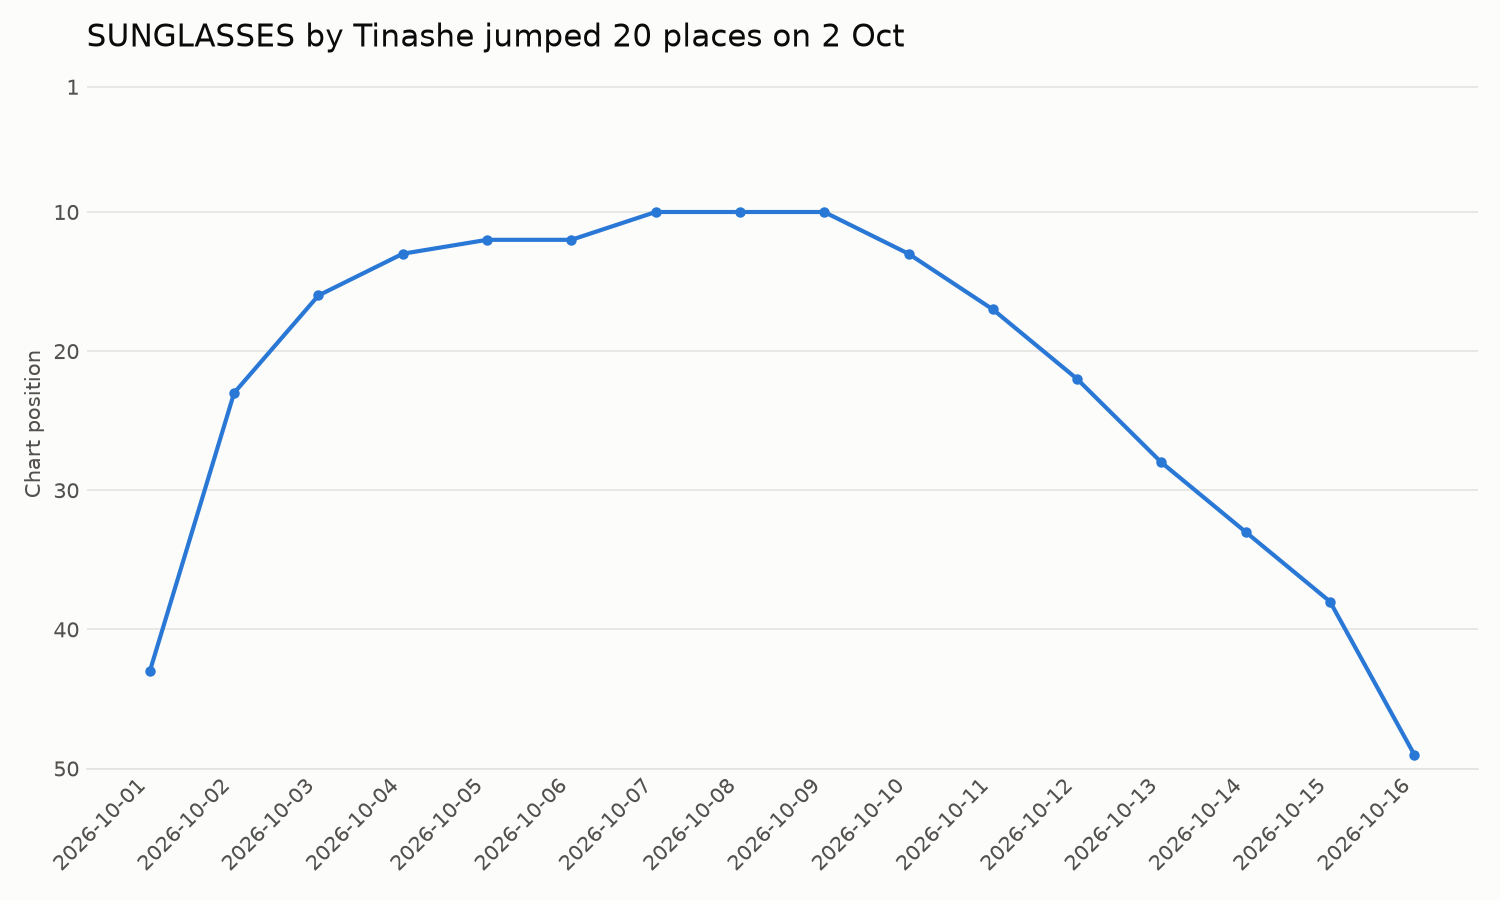
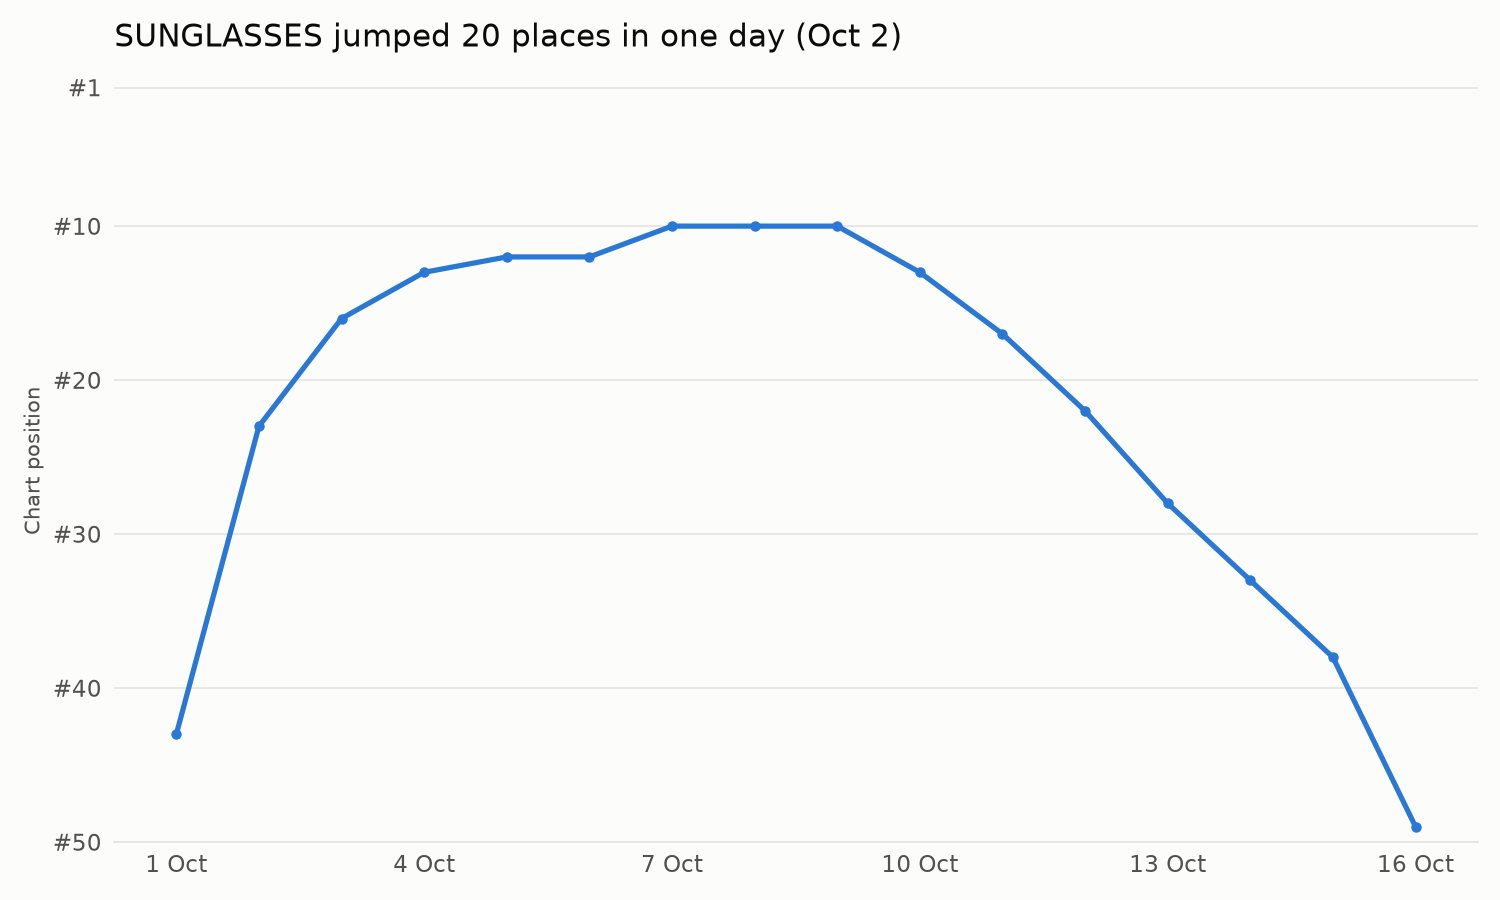
Chart tool: short date labels, #1-style positions

diff --git a/agent.py b/agent.py
@@ -95,6 +95,19 @@ def run_sql(query: str) -> str:
 
 
 # ---------- Tool 2: make a chart ----------
+def short_date_labels(labels: pd.Series) -> pd.Series | None:
+    """Turn '2026-10-01' into '1 Oct' (and '2026-10' into 'Oct 2026'). None if the labels aren't dates."""
+    if not labels.str.match(r"^\d{4}-\d{2}(-\d{2})?").all():
+        return None
+    dates = pd.to_datetime(labels.str[:10], errors="coerce")
+    if dates.isna().any():
+        return None
+    if labels.str.len().max() == 7:                       # months, e.g. 2026-10
+        return dates.dt.strftime("%b %Y")
+    one_year = dates.dt.year.nunique() == 1
+    return dates.dt.day.astype(str) + dates.dt.strftime(" %b" if one_year else " %b %y")
+
+
 def make_chart(query: str, chart_type: str, x: str, y: str, title: str,
                y_label: str = "", invert_y: bool = False) -> str:
     try:
@@ -113,35 +126,48 @@ def make_chart(query: str, chart_type: str, x: str, y: str, title: str,
     fig, ax = plt.subplots(figsize=(10, 6), facecolor=BACKGROUND)
     ax.set_facecolor(BACKGROUND)
     labels = df[x].astype(str)
+    dates = short_date_labels(labels)
+    if dates is not None:
+        labels = dates                                    # short, readable dates
     values = pd.to_numeric(df[y])
+    long_labels = labels.str.len().max() > 8
 
     if chart_type == "bar":
-        ax.bar(labels, values, color=BAR_COLOR, width=0.6)
+        ax.bar(range(len(df)), values, color=BAR_COLOR, width=0.6)
+        ax.set_xticks(range(len(df)), labels)
         ax.yaxis.grid(True, color=GRID)
-        plt.xticks(rotation=45 if len(df) > 6 else 0, ha="right" if len(df) > 6 else "center")
+        if long_labels and len(df) > 6:
+            plt.xticks(rotation=45, ha="right")
     elif chart_type == "barh":
         ax.barh(labels[::-1], values[::-1], color=BAR_COLOR, height=0.6)
         ax.xaxis.grid(True, color=GRID)
     elif chart_type == "line":
-        ax.plot(labels, values, color=BAR_COLOR, linewidth=2, marker="o", markersize=4)
+        ax.plot(range(len(df)), values, color=BAR_COLOR, linewidth=2.5, marker="o", markersize=4,
+                solid_capstyle="round", solid_joinstyle="round")
         ax.yaxis.grid(True, color=GRID)
-        step = max(1, len(df) // 12)            # show at most ~12 x labels
-        ax.set_xticks(range(0, len(df), step))
-        plt.xticks(rotation=45, ha="right")
+        # About 7 evenly spaced labels, starting at the first point and ending near the last
+        step = max(1, -(-(len(df) - 1) // 6))             # rounds up
+        ticks = list(range(0, len(df), step))
+        if len(df) - 1 - ticks[-1] >= step / 2:           # add the last point if there is room
+            ticks.append(len(df) - 1)
+        ax.set_xticks(ticks, [labels.iloc[i] for i in ticks])
+        if long_labels:
+            plt.xticks(rotation=45, ha="right")
     else:
         plt.close(fig)
         return "Unknown chart_type. Use 'bar', 'barh' or 'line'."
 
-    # Chart positions: #1 belongs at the top, so flip the axis
+    # Chart positions: #1 belongs at the top, so flip the axis and label it #1, #10, ...
     if invert_y:
         top = int(values.max())
         step = 5 if top <= 30 else 10
         ticks = [1] + list(range(step, top + step, step))   # always show #1
+        position_format = FuncFormatter(lambda v, _: f"#{int(v)}")
         if chart_type == "barh":
-            ax.set_xticks(ticks); ax.set_xlim(top + 1, 0)
+            ax.set_xticks(ticks); ax.set_xlim(top + 1, 0); ax.xaxis.set_major_formatter(position_format)
         else:
-            ax.set_yticks(ticks); ax.set_ylim(top + 1, 0.5)
-    if values.abs().max() >= 1000:
+            ax.set_yticks(ticks); ax.set_ylim(top + 1, 0.5); ax.yaxis.set_major_formatter(position_format)
+    elif values.abs().max() >= 1000:
         number_axis = ax.xaxis if chart_type == "barh" else ax.yaxis
         number_axis.set_major_formatter(FuncFormatter(lambda v, _: f"{v:,.0f}"))
 
@@ -149,7 +175,7 @@ def make_chart(query: str, chart_type: str, x: str, y: str, title: str,
     for side in ["top", "right", "left"]:
         ax.spines[side].set_visible(False)
     ax.spines["bottom"].set_color(GRID)
-    ax.tick_params(colors=TEXT_SOFT, length=0)
+    ax.tick_params(colors=TEXT_SOFT, length=0, labelsize=11, pad=6)
     ax.set_title(title, loc="left", fontsize=15, color=TEXT_DARK, pad=16)
     if chart_type == "barh":
         ax.set_xlabel(y_label or y, color=TEXT_SOFT)
@@ -165,6 +191,7 @@ def make_chart(query: str, chart_type: str, x: str, y: str, title: str,
     if sys.platform == "darwin":
         subprocess.run(["open", str(path)])
     return f"Chart saved to {path}.\nData used:\n{df.head(30).to_string(index=False)}"
+
 
 
 # ---------- Tool descriptions for Claude ----------

diff --git a/make_chart_section.py b/make_chart_section.py
@@ -1,0 +1,97 @@
+# ---------- Tool 2: make a chart ----------
+def short_date_labels(labels: pd.Series) -> pd.Series | None:
+    """Turn '2026-10-01' into '1 Oct' (and '2026-10' into 'Oct 2026'). None if the labels aren't dates."""
+    if not labels.str.match(r"^\d{4}-\d{2}(-\d{2})?").all():
+        return None
+    dates = pd.to_datetime(labels.str[:10], errors="coerce")
+    if dates.isna().any():
+        return None
+    if labels.str.len().max() == 7:                       # months, e.g. 2026-10
+        return dates.dt.strftime("%b %Y")
+    one_year = dates.dt.year.nunique() == 1
+    return dates.dt.day.astype(str) + dates.dt.strftime(" %b" if one_year else " %b %y")
+
+
+def make_chart(query: str, chart_type: str, x: str, y: str, title: str,
+               y_label: str = "", invert_y: bool = False) -> str:
+    try:
+        df = query_to_df(query)
+    except Exception as e:
+        return f"SQL error: {e}. Fix the query and try again."
+    x, y = x.lower(), y.lower()
+    if df.empty:
+        return "The query returned no rows, so no chart was made."
+    if x not in df.columns or y not in df.columns:
+        return (f"Column not found. The query returned these columns: "
+                f"{list(df.columns)}. Use those names for x and y.")
+    if len(df) > 30 and chart_type != "line":
+        return f"Too many bars ({len(df)}). Limit the query to 30 rows or fewer."
+
+    fig, ax = plt.subplots(figsize=(10, 6), facecolor=BACKGROUND)
+    ax.set_facecolor(BACKGROUND)
+    labels = df[x].astype(str)
+    dates = short_date_labels(labels)
+    if dates is not None:
+        labels = dates                                    # short, readable dates
+    values = pd.to_numeric(df[y])
+    long_labels = labels.str.len().max() > 8
+
+    if chart_type == "bar":
+        ax.bar(range(len(df)), values, color=BAR_COLOR, width=0.6)
+        ax.set_xticks(range(len(df)), labels)
+        ax.yaxis.grid(True, color=GRID)
+        if long_labels and len(df) > 6:
+            plt.xticks(rotation=45, ha="right")
+    elif chart_type == "barh":
+        ax.barh(labels[::-1], values[::-1], color=BAR_COLOR, height=0.6)
+        ax.xaxis.grid(True, color=GRID)
+    elif chart_type == "line":
+        ax.plot(range(len(df)), values, color=BAR_COLOR, linewidth=2.5, marker="o", markersize=4,
+                solid_capstyle="round", solid_joinstyle="round")
+        ax.yaxis.grid(True, color=GRID)
+        # About 7 evenly spaced labels, starting at the first point and ending near the last
+        step = max(1, -(-(len(df) - 1) // 6))             # rounds up
+        ticks = list(range(0, len(df), step))
+        if len(df) - 1 - ticks[-1] >= step / 2:           # add the last point if there is room
+            ticks.append(len(df) - 1)
+        ax.set_xticks(ticks, [labels.iloc[i] for i in ticks])
+        if long_labels:
+            plt.xticks(rotation=45, ha="right")
+    else:
+        plt.close(fig)
+        return "Unknown chart_type. Use 'bar', 'barh' or 'line'."
+
+    # Chart positions: #1 belongs at the top, so flip the axis and label it #1, #10, ...
+    if invert_y:
+        top = int(values.max())
+        step = 5 if top <= 30 else 10
+        ticks = [1] + list(range(step, top + step, step))   # always show #1
+        position_format = FuncFormatter(lambda v, _: f"#{int(v)}")
+        if chart_type == "barh":
+            ax.set_xticks(ticks); ax.set_xlim(top + 1, 0); ax.xaxis.set_major_formatter(position_format)
+        else:
+            ax.set_yticks(ticks); ax.set_ylim(top + 1, 0.5); ax.yaxis.set_major_formatter(position_format)
+    elif values.abs().max() >= 1000:
+        number_axis = ax.xaxis if chart_type == "barh" else ax.yaxis
+        number_axis.set_major_formatter(FuncFormatter(lambda v, _: f"{v:,.0f}"))
+
+    ax.set_axisbelow(True)
+    for side in ["top", "right", "left"]:
+        ax.spines[side].set_visible(False)
+    ax.spines["bottom"].set_color(GRID)
+    ax.tick_params(colors=TEXT_SOFT, length=0, labelsize=11, pad=6)
+    ax.set_title(title, loc="left", fontsize=15, color=TEXT_DARK, pad=16)
+    if chart_type == "barh":
+        ax.set_xlabel(y_label or y, color=TEXT_SOFT)
+    else:
+        ax.set_ylabel(y_label or y, color=TEXT_SOFT)
+    fig.tight_layout()
+
+    CHART_FOLDER.mkdir(exist_ok=True)
+    slug = re.sub(r"[^a-z0-9]+", "-", title.lower()).strip("-")[:40]
+    path = CHART_FOLDER / f"{datetime.now():%Y-%m-%d_%H%M%S}_{slug}.png"
+    fig.savefig(path, dpi=150, facecolor=BACKGROUND)
+    plt.close(fig)
+    if sys.platform == "darwin":
+        subprocess.run(["open", str(path)])
+    return f"Chart saved to {path}.\nData used:\n{df.head(30).to_string(index=False)}"
